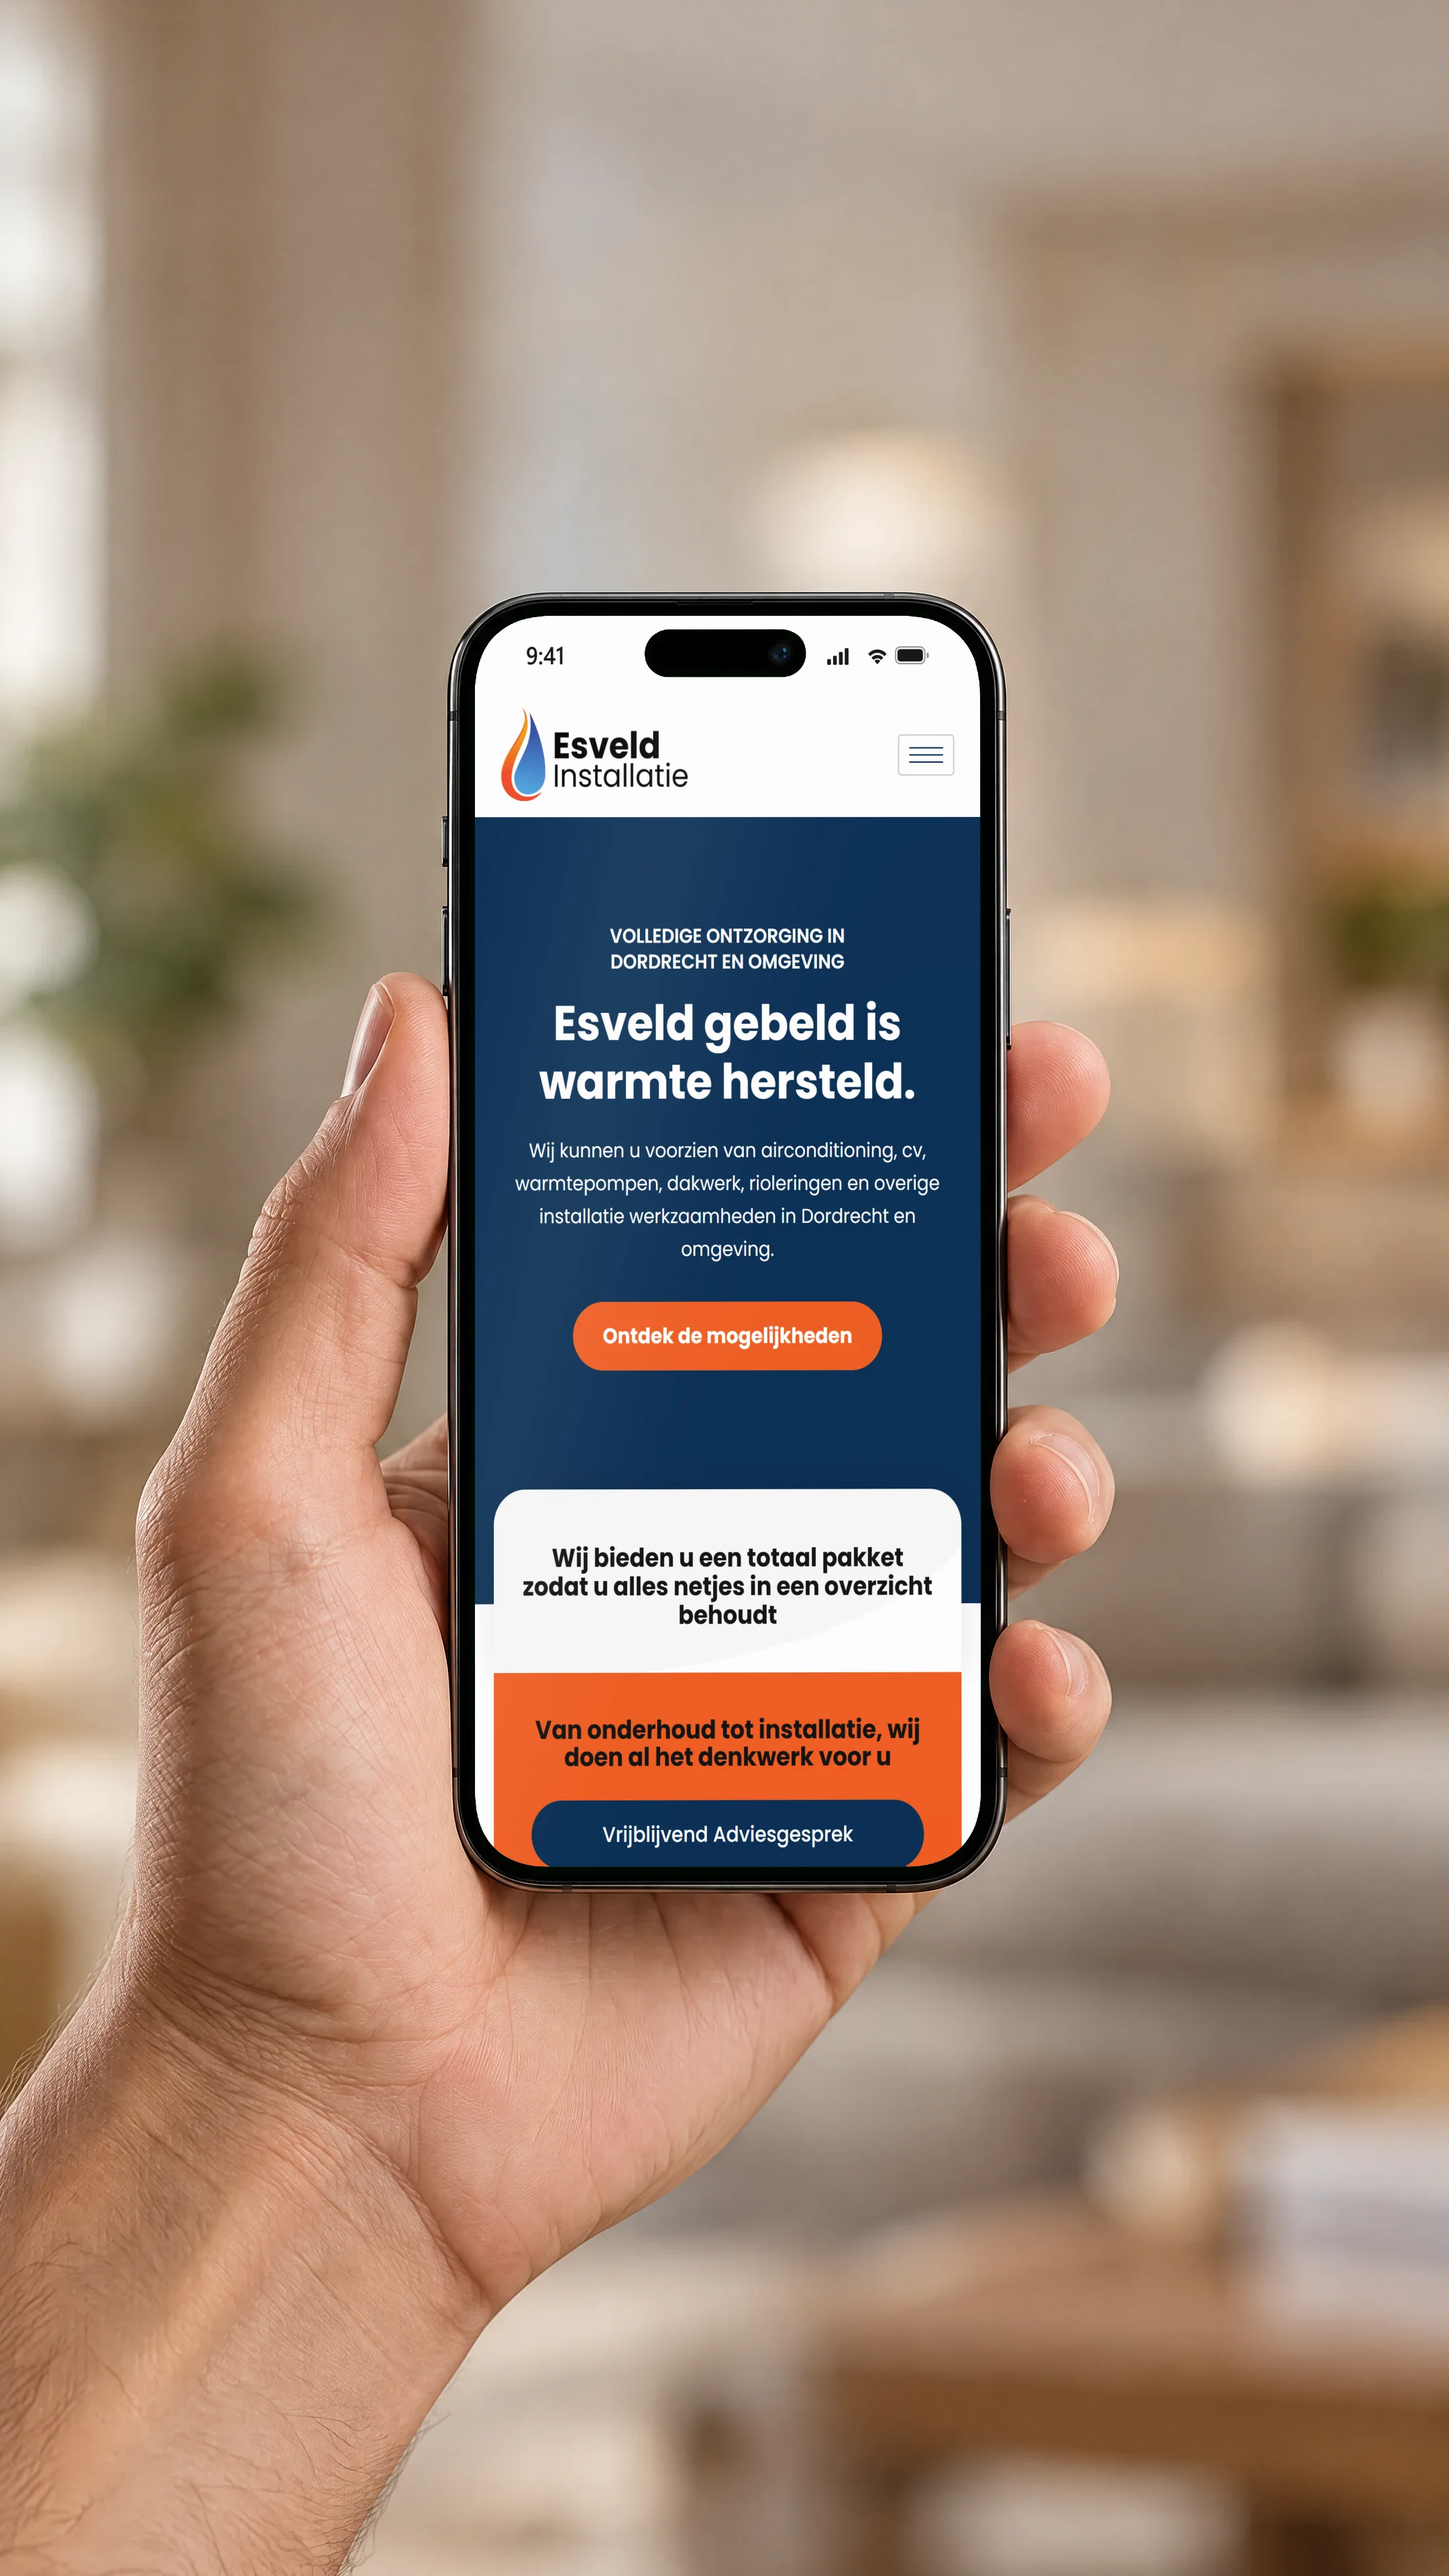
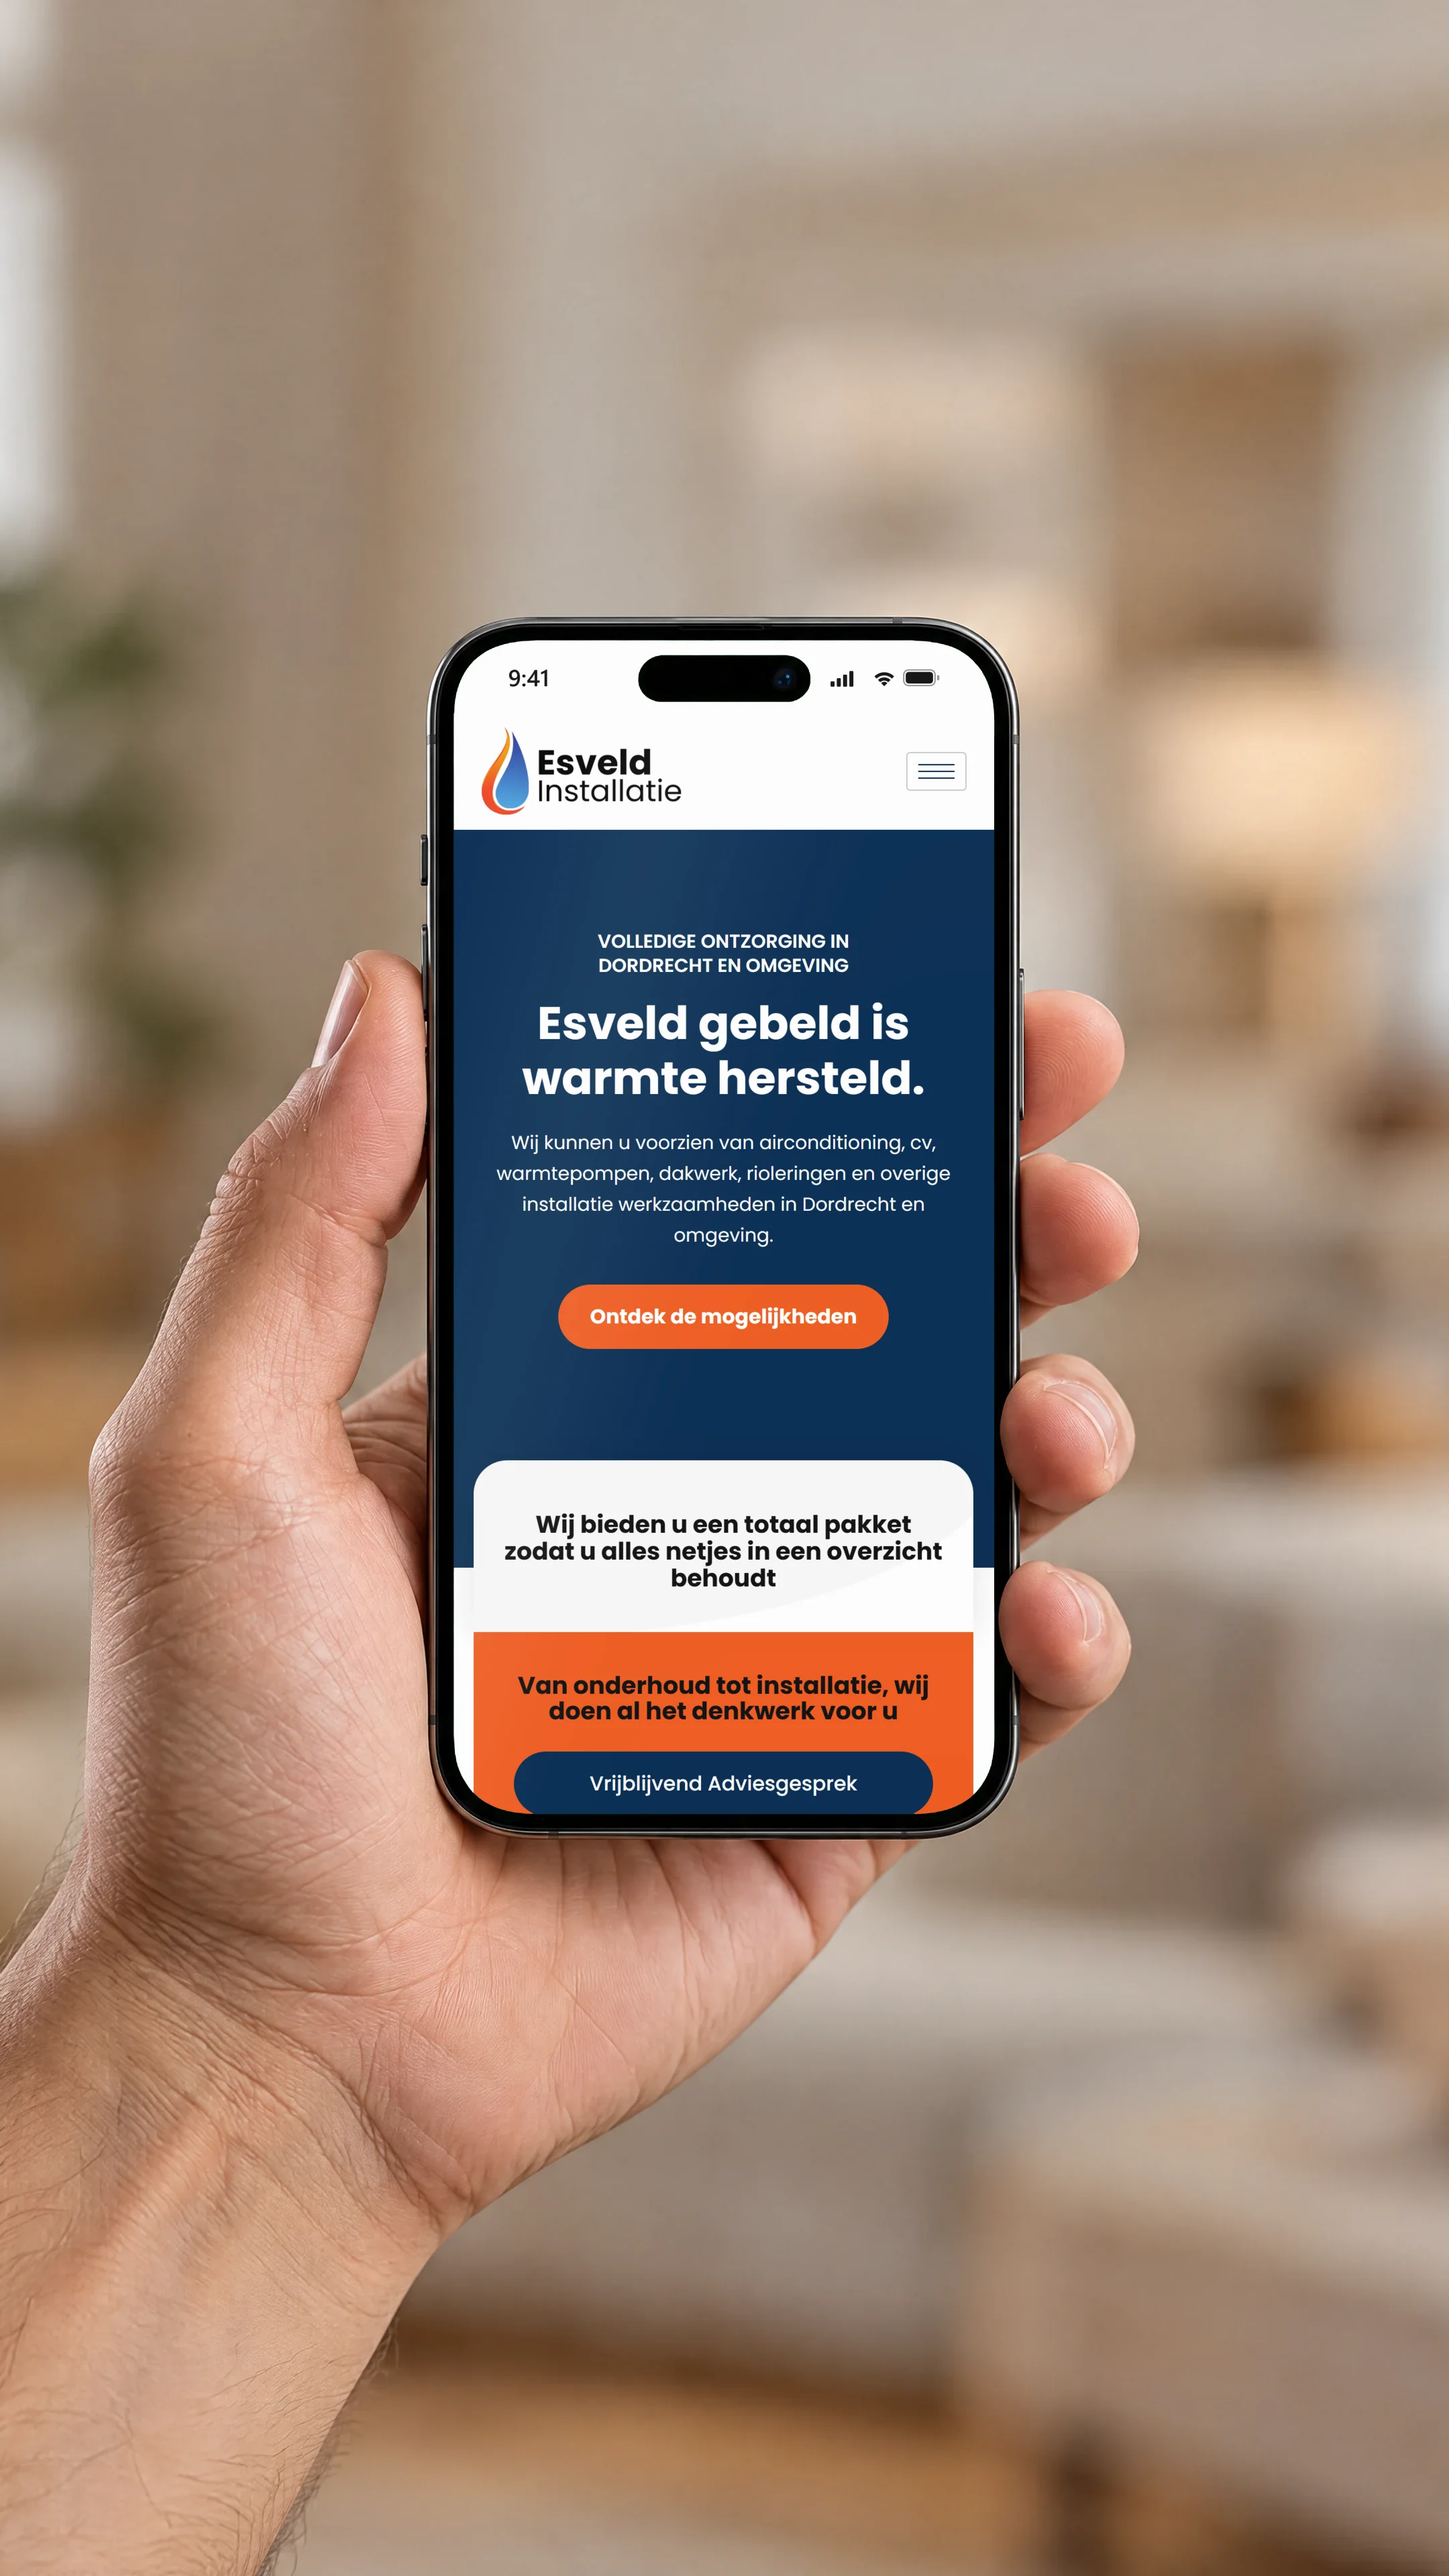
Esveld: telefoonmockup met echte iPhone-verhoudingen
De gegenereerde telefoon was te lang (scherm 2,48 keer zo hoog als breed in plaats
van 2,17), waardoor de site uitgerekt in beeld stond. Nieuwe foto, de laatste 6%
in de hoogte gecorrigeerd.

diff --git a/src/data/caseMockups.ts b/src/data/caseMockups.ts
@@ -145,8 +145,8 @@ export const caseTelefoons: Record<string, TelefoonFoto> = {
     srcSet: esveldInstallatieTelefoonSet,
     breedte: 2160,
     hoogte: 3840,
-    midden: 0.48,
-    telefoonHoogte: 0.5,
+    midden: 0.476,
+    telefoonHoogte: 0.48,
   },
 };
 

diff --git a/scripts/mockups/README.md b/scripts/mockups/README.md
@@ -180,7 +180,11 @@ als het scherm). `donker: true` maakt de vaste header boven de foto licht.
     een groen scherm in al dat groen zou wegvallen (`sleutel: "magenta"`). `midden`
     0,455, `telefoonHoogte` 0,387, glans `studio`.
   - `basis/telefoon-binnen-9x16.webp` (binnen): hand met een donkere iPhone recht van voren, wazig warm
-    interieur in daglicht (job `d37d4c46-e7c1-40e9-acb3-c1219ff3de12`). `midden` 0,48, `telefoonHoogte` 0,5, glans `studio`.
+    interieur in daglicht (job `5fb69025-c875-4b1d-9274-b913bd8ac23a`). `midden` 0,476, `telefoonHoogte` 0,48, glans `studio`.
+    Gegenereerde telefoons zijn vaak te lang (scherm 2,3-2,5 keer zo hoog als breed, echt is 2,17): dan
+    wordt de site uitgerekt. Deze foto is daarom 6,2% in de hoogte ingedrukt en aan de zijkanten
+    bijgesneden tot 9:16, waarna het scherm precies 2,17 is. Meet een nieuwe telefoonfoto altijd na
+    (hoogte/breedte van het groene vlak) voordat je hem gebruikt.
   - `basis/telefoon-bank-9x16.webp` (bank): iPhone plat en diagonaal op een groen
     metalen bankje in hard zonlicht. `midden` 0,5, `telefoonHoogte` 0,615. Glans `zon`:
     het scherm in de zon iets gedempt en warmer (gemeten in de referentie: beige
